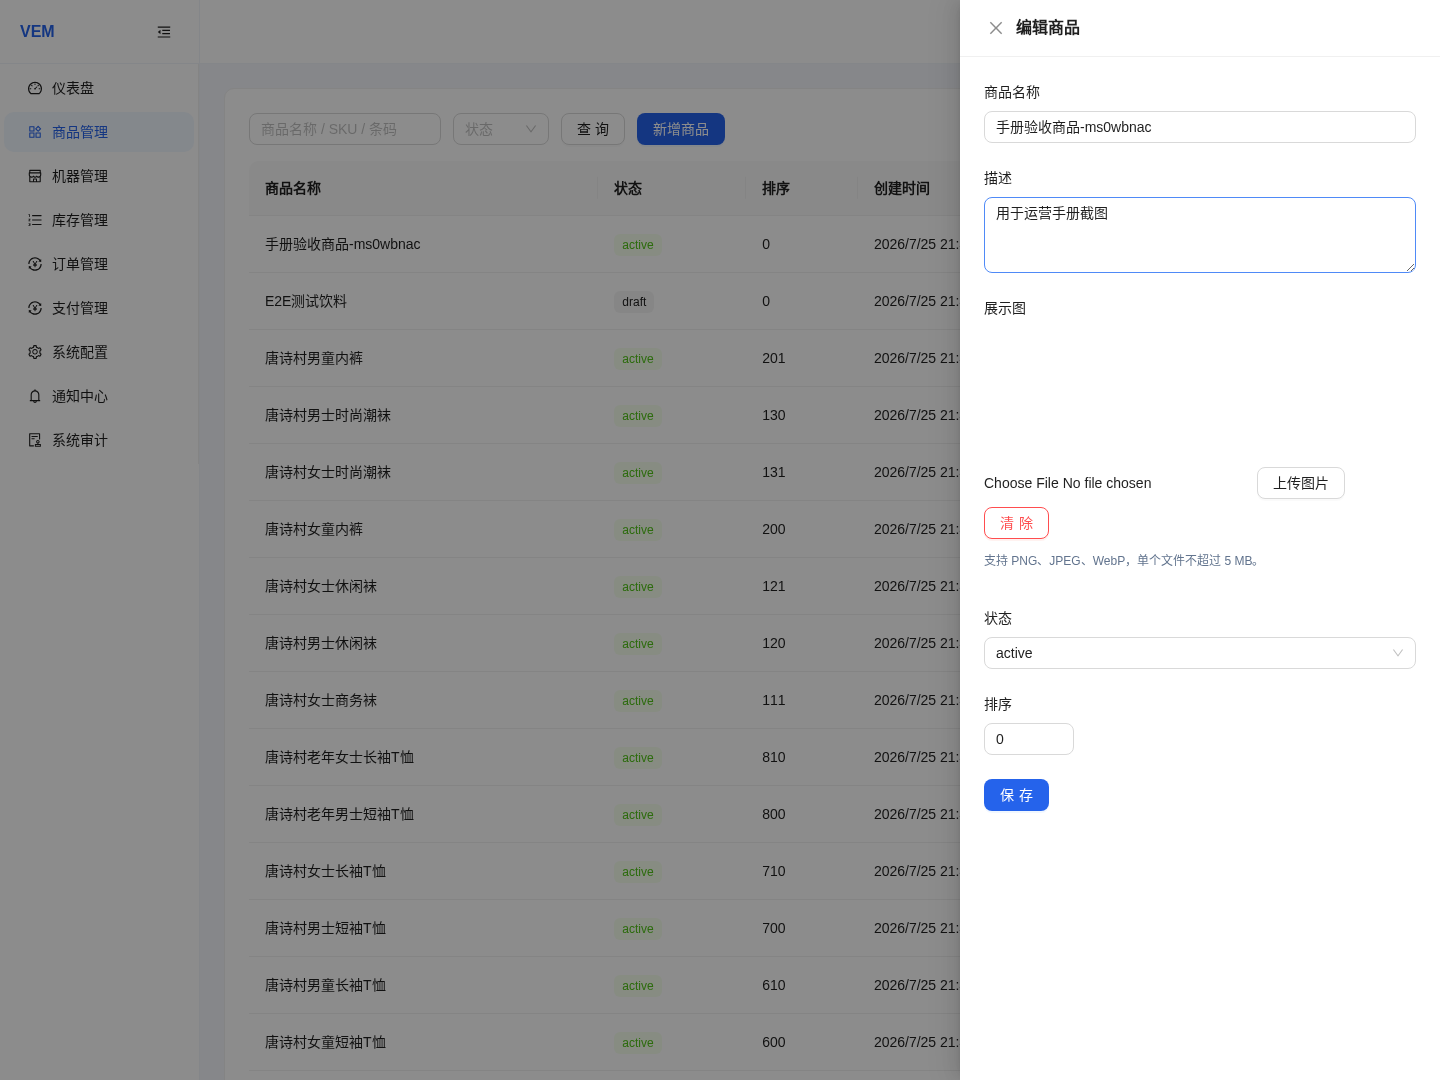
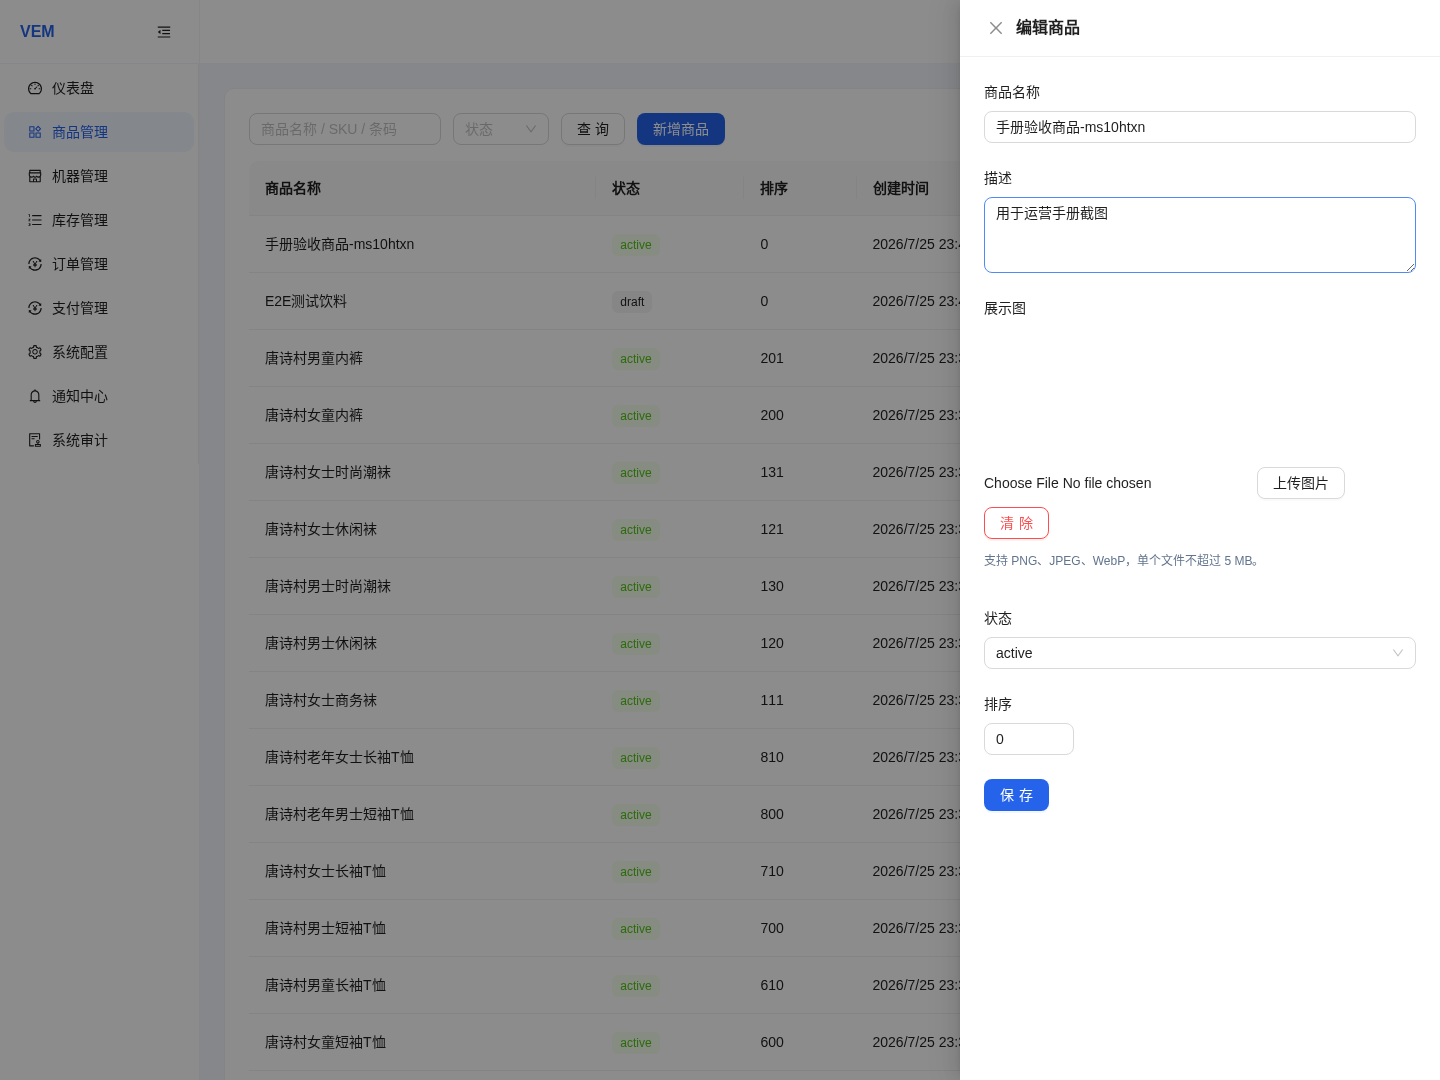
test(runtime): 补齐运营手册验收证据

diff --git a/apps/admin-ui/tests/operator-manual-screenshots.spec.ts b/apps/admin-ui/tests/operator-manual-screenshots.spec.ts
@@ -183,7 +183,16 @@ async function seedCatalogForScreenshots(page: Page): Promise<SeededCatalog> {
   return { machine, slot, product, variant };
 }
 
-async function installOrderIncidentRoutes(page: Page): Promise<void> {
+type IncidentActionRequest = {
+  action: string;
+  reason: string;
+  refundId?: string;
+};
+
+async function installOrderIncidentRoutes(
+  page: Page,
+): Promise<IncidentActionRequest[]> {
+  const incidentActions: IncidentActionRequest[] = [];
   const now = "2026-07-25T12:00:00.000Z";
   const order = {
     id: "manual-order-incident",
@@ -345,6 +354,30 @@ async function installOrderIncidentRoutes(page: Page): Promise<void> {
     }
     await route.fallback();
   });
+  await page.route("**/api/payments/*/incident-actions", async (route) => {
+    const request = route.request();
+    if (request.method() !== "POST") {
+      await route.fallback();
+      return;
+    }
+    const body = request.postDataJSON() as IncidentActionRequest;
+    incidentActions.push(body);
+    await route.fulfill({
+      contentType: "application/json",
+      body: JSON.stringify({
+        code: 0,
+        message: "ok",
+        data: {
+          action: body.action,
+          status: "submitted",
+          handled: true,
+          message: "处理动作已提交",
+          protectedDiagnostics: {},
+        },
+      }),
+    });
+  });
+  return incidentActions;
 }
 
 function formItem(page: Page, label: string) {
@@ -367,8 +400,9 @@ test.describe("Operator manual Admin UI screenshots", () => {
   test("captures product, inventory, payment, machine, and incident details", async ({
     page,
   }) => {
-    test.setTimeout(90_000);
-    const { machine, product, variant } = await seedCatalogForScreenshots(page);
+    test.setTimeout(150_000);
+    const { machine, slot, product, variant } =
+      await seedCatalogForScreenshots(page);
 
     await page.goto("/products");
     await waitForAdminUiSettled(page);
@@ -433,7 +467,21 @@ test.describe("Operator manual Admin UI screenshots", () => {
 
     await page.goto("/inventory");
     await waitForAdminUiSettled(page);
-    await page.getByRole("button", { name: "绑定库存" }).click();
+    const [bindMachinesResponse, bindProductsResponse] = await Promise.all([
+      page.waitForResponse(
+        (response) =>
+          response.url().includes("/api/machines") &&
+          response.request().method() === "GET",
+      ),
+      page.waitForResponse(
+        (response) =>
+          response.url().includes("/api/products") &&
+          response.request().method() === "GET",
+      ),
+      page.getByRole("button", { name: "绑定库存" }).click(),
+    ]);
+    expect(bindMachinesResponse.ok()).toBe(true);
+    expect(bindProductsResponse.ok()).toBe(true);
     const inventoryModal = page.locator(".ant-modal").filter({
       hasText: "绑定库存",
     });
@@ -447,6 +495,23 @@ test.describe("Operator manual Admin UI screenshots", () => {
     });
     await page.keyboard.press("Escape");
     await expect(inventoryModal).toBeHidden({ timeout: 10_000 });
+    await adminApi(page, "/inventories", {
+      method: "POST",
+      body: {
+        machineId: machine.id,
+        slotId: slot.id,
+        variantId: variant.id,
+        onHandQty: 5,
+        reservedQty: 0,
+        lowStockThreshold: 1,
+        note: "手册工作流验收",
+      },
+    });
+    await page.goto("/inventory");
+    await waitForAdminUiSettled(page);
+    await expect(
+      page.locator(".ant-table-row").filter({ hasText: variant.sku }),
+    ).toBeVisible({ timeout: 10_000 });
 
     await page.goto("/payments");
     await page.getByRole("tab", { name: "支付渠道" }).click();
@@ -458,6 +523,15 @@ test.describe("Operator manual Admin UI screenshots", () => {
       route: "/payments#channels",
       expectedTexts: ["支付渠道管理", "启用", "默认", "保存"],
     });
+    const [paymentPolicyResponse] = await Promise.all([
+      page.waitForResponse(
+        (response) =>
+          response.url().endsWith("/api/payments/channel-policy") &&
+          response.request().method() === "PUT",
+      ),
+      page.getByRole("button", { name: "保存" }).click(),
+    ]);
+    expect(paymentPolicyResponse.ok()).toBe(true);
 
     await page.goto("/machines");
     await waitForAdminUiSettled(page);
@@ -481,7 +555,7 @@ test.describe("Operator manual Admin UI screenshots", () => {
     await page.keyboard.press("Escape");
     await expect(claimDrawer).toBeHidden({ timeout: 10_000 });
 
-    await installOrderIncidentRoutes(page);
+    const incidentActions = await installOrderIncidentRoutes(page);
     await page.goto("/orders");
     await expect(page.getByText("ORD-MANUAL-INCIDENT")).toBeVisible({
       timeout: 10_000,
@@ -495,5 +569,24 @@ test.describe("Operator manual Admin UI screenshots", () => {
       route: "/orders#payment-incident",
       expectedTexts: ["订单调查", "查询支付", "申请退款处理", "标记人工处理"],
     });
+    await orderDrawer.locator("textarea").first().fill("手册工作流验收");
+    const [incidentActionResponse] = await Promise.all([
+      page.waitForResponse(
+        (response) =>
+          response
+            .url()
+            .endsWith(
+              "/api/payments/manual-payment-unknown/incident-actions",
+            ) && response.request().method() === "POST",
+      ),
+      orderDrawer.getByRole("button", { name: "查询支付" }).click(),
+    ]);
+    expect(incidentActionResponse.ok()).toBe(true);
+    expect(incidentActions).toContainEqual(
+      expect.objectContaining({
+        action: "query_payment",
+        reason: "手册工作流验收",
+      }),
+    );
   });
 });
